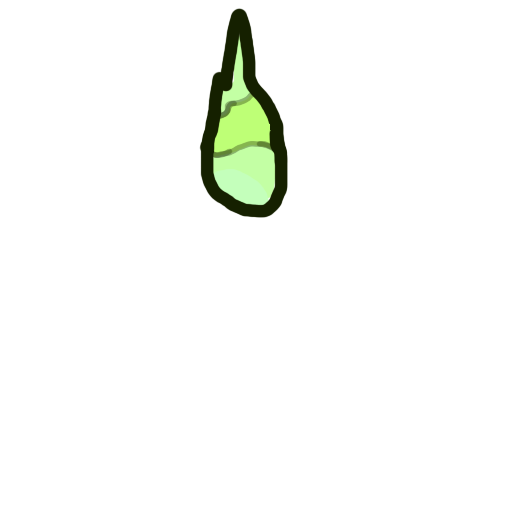
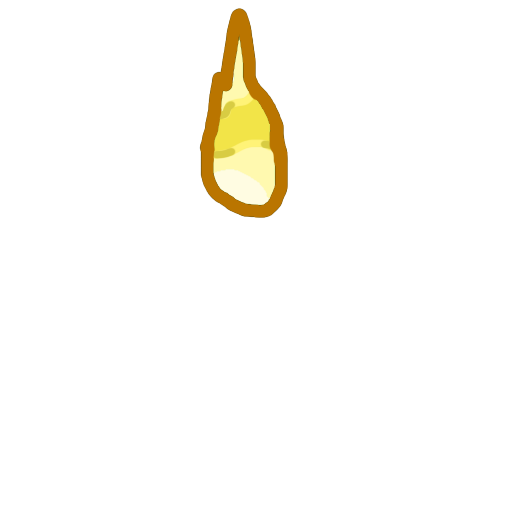
recolored versions of the glue

Changed region(s): [[0.375, 0.0, 0.5625, 0.4375]]

diff --git a/src/obj/Release/net6.0/ReachForStars.AssemblyInfo.cs b/src/obj/Release/net6.0/ReachForStars.AssemblyInfo.cs
@@ -14,7 +14,7 @@ using System.Reflection;
 [assembly: System.Reflection.AssemblyConfigurationAttribute("Release")]
 [assembly: System.Reflection.AssemblyDescriptionAttribute("The Silliest Among Us Mod")]
 [assembly: System.Reflection.AssemblyFileVersionAttribute("1.0.0.0")]
-[assembly: System.Reflection.AssemblyInformationalVersionAttribute("1.0.0+9e87f66c826592cb6d5d867258dd528d057c0896")]
+[assembly: System.Reflection.AssemblyInformationalVersionAttribute("1.0.0+8183ed1fe5fcf09547ff9235dee22c65344cf967")]
 [assembly: System.Reflection.AssemblyProductAttribute("ReachForStars")]
 [assembly: System.Reflection.AssemblyTitleAttribute("ReachForStars")]
 [assembly: System.Reflection.AssemblyVersionAttribute("1.0.0.0")]
